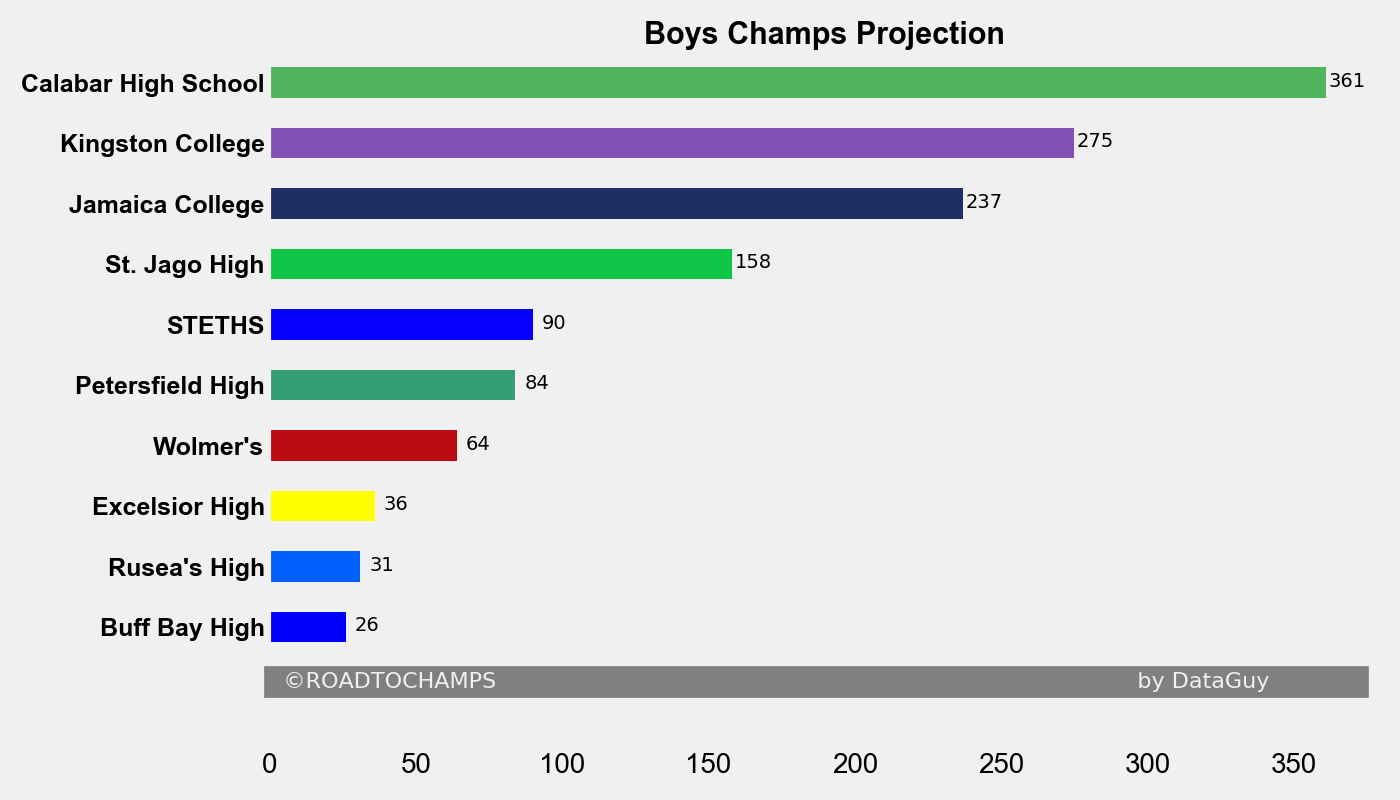
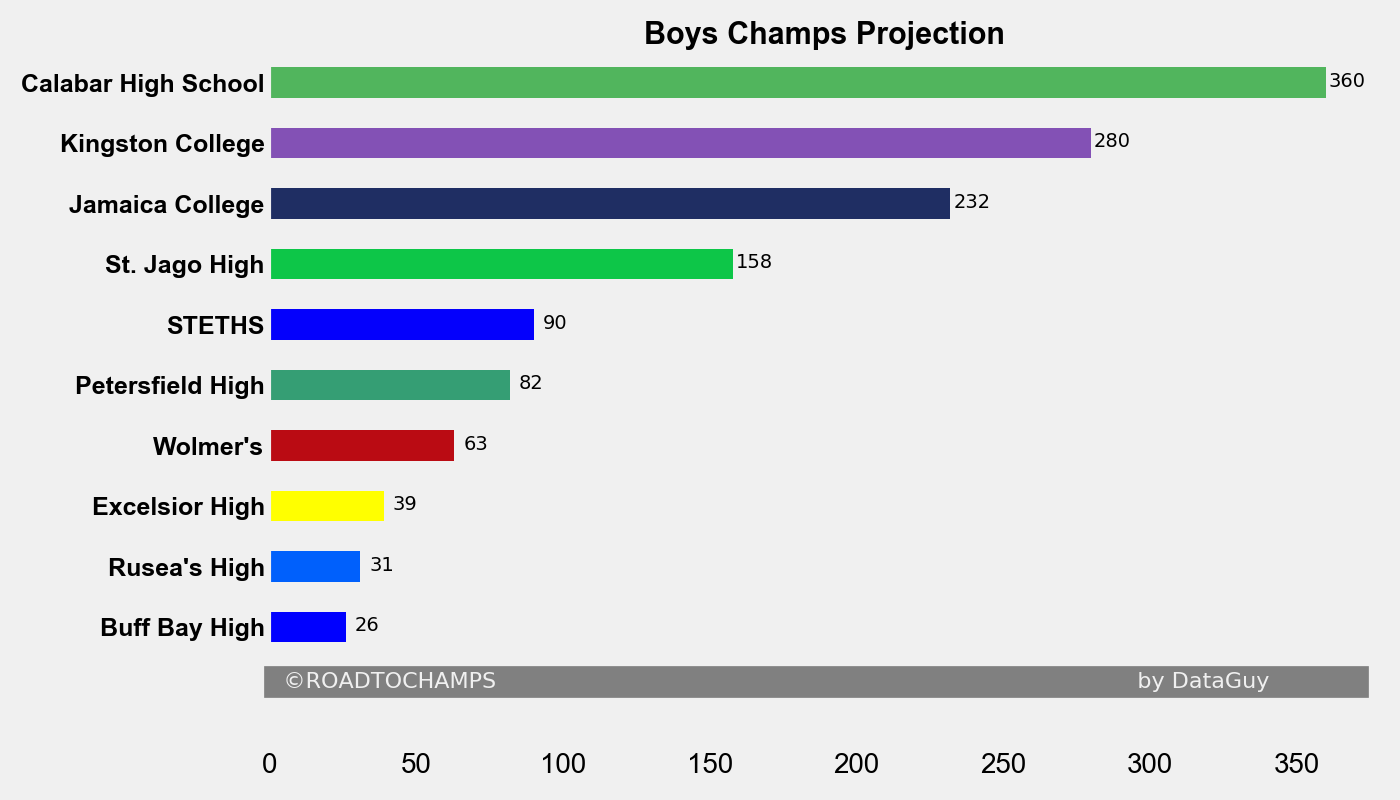
Updated projections 9PM on Wednesday

diff --git a/index.html b/index.html
@@ -59,10 +59,12 @@
     
       <div class="row">
           <div class="col-md-6">
-              <h5>Current Projection - as of Wednesday 8AM </h5>
+              <h5>Current Projection - as of Wednesday 9PM </h5>
               <p>Based on Tuesday's event results combined with the season toplists Calabar High School is favoured to
                   easily retain the Mortimer Geddes trophy on March 24th with around 360 points.
-
+              </p>
+              <p>
+                  The projected points have been adjusted downwards because the Calabar Class 3 4x100 team are out of the relay
               </p>
 
               <img src="img/BoysPoints.png" height="280" width="470" style="padding: 4px"/>
